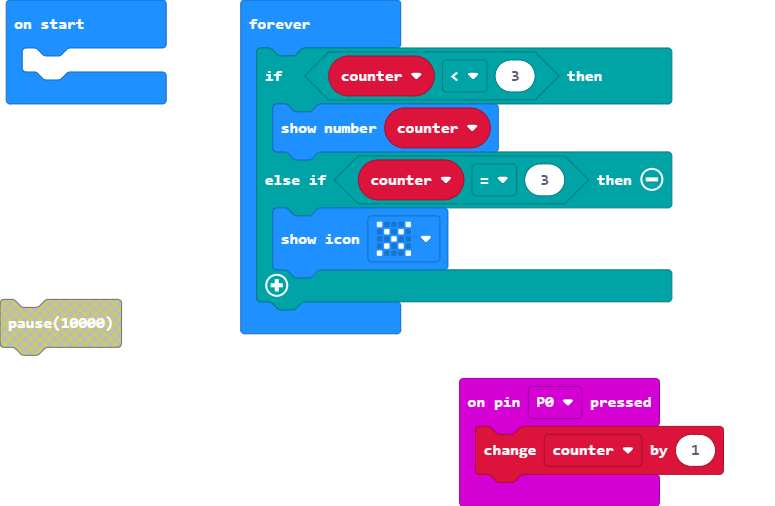
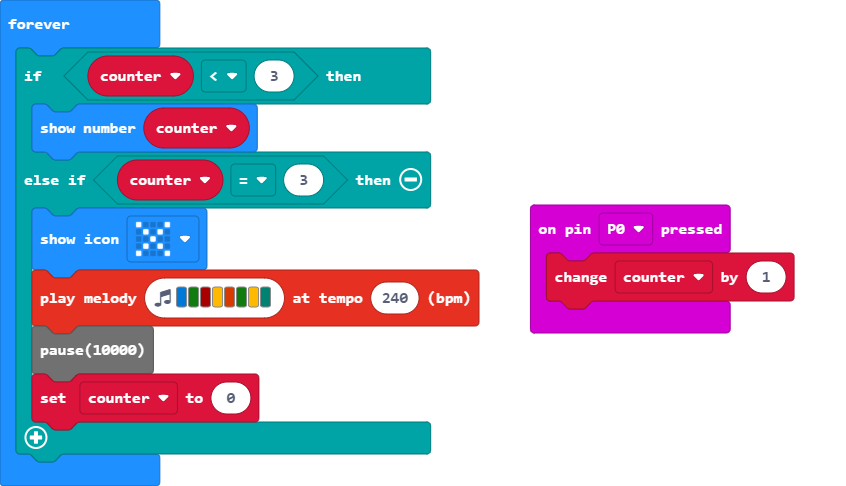
add melody

diff --git a/main.ts b/main.ts
@@ -7,7 +7,8 @@ basic.forever(function () {
         basic.showNumber(counter)
     } else if (counter == 3) {
         basic.showIcon(IconNames.No)
-        pause(30000)
-        counter = 0
+        music.playMelody("E G C5 A B G A F ", 240)
+        pause(10000)
+counter = 0
     }
 })
